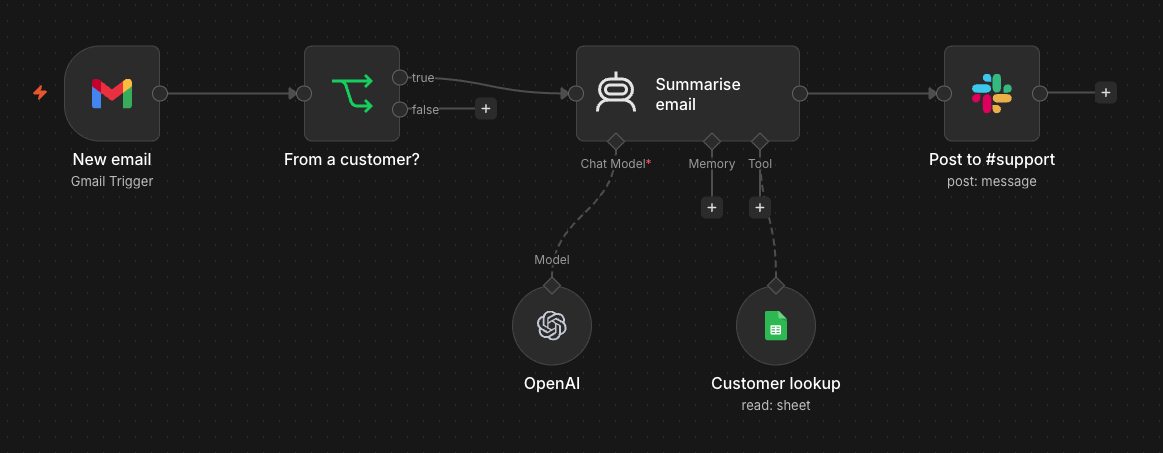
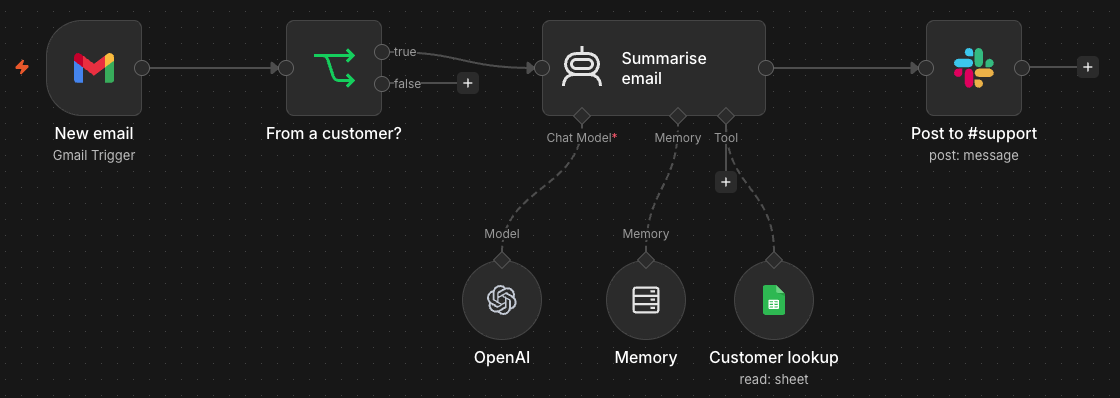
docs: annotate connection types screenshot, trim webhook and end slides

diff --git a/slides.md b/slides.md
@@ -282,7 +282,7 @@ layout: section
 
 # The running <span class="accent">example</span>
 
-<img src="/running-example.png" alt="Workflow: New email (Gmail Trigger) → From a customer? (IF) → Summarise email (AI Agent with OpenAI model and Customer lookup tool) → Post to #support (Slack)" class="example-shot" />
+<img src="/running-example.png" alt="Workflow: New email (Gmail Trigger) → From a customer? (IF) → Summarise email (AI Agent with OpenAI model, Memory and Customer lookup tool) → Post to #support (Slack)" class="example-shot" />
 
 <p class="text-center muted small mt-4">New customer email → decide → summarise with AI → notify the team</p>
 
@@ -499,24 +499,16 @@ layout: section
 <div class="flow mt-2">
   <div class="fstep"><div class="n">Activate</div><div class="t"><code>checkExists()</code></div><div class="d">Is our webhook already registered?</div></div>
   <div class="fstep"><div class="n">If not</div><div class="t"><code>create()</code></div><div class="d">Register our URL with the service</div></div>
-  <div class="fstep pink"><div class="n">On event</div><div class="t"><code>webhook()</code></div><div class="d">Verify, then emit items</div></div>
+  <div class="fstep pink"><div class="n">On event</div><div class="t"><code>webhook()</code></div><div class="d">Turn the request into items</div></div>
   <div class="fstep"><div class="n">Deactivate</div><div class="t"><code>delete()</code></div><div class="d">Unregister the webhook</div></div>
 </div>
 
 <p class="statement" style="margin-top:2.5rem">Publish registers, unpublish <span class="accent">cleans up.</span></p>
 <p class="text-center mt-3">The node describes the lifecycle. n8n calls it at the right time, so no subscription is left behind.</p>
 
-<div class="card mt-8 small-note"><h3>Also</h3><p>Services sign their requests. Check the signature in <code>webhook()</code> before you emit items. <span class="file-ref">nodes/GitHub/GithubTriggerHelpers.ts</span></p></div>
-
-<style>
-.small-note { padding: 0.7rem 1rem; }
-</style>
-
 <!--
 - The lifecycle lives in webhookMethods: checkExists / create / delete
 - create runs when the workflow is published or n8n starts, and only if checkExists returns false
-- Services sign requests: usually HMAC over the raw body (sometimes + timestamp) compared to a header
-- Compare with crypto.timingSafeEqual. On mismatch return empty workflowData so nothing runs
 - Example node: packages/nodes-base/nodes/Microsoft/Teams/MicrosoftTeamsTrigger.node.ts
 -->
 
@@ -1003,28 +995,33 @@ layout: section
 
 <div class="grid grid-cols-3 gap-6 items-center">
 <div class="col-span-2">
-
-```mermaid {scale: 1}
-flowchart LR
-  IN["From a customer? · true"] -- main --> AG["🤖 Summarise email"]
-  AG -- main --> OUT["Post to #support"]
-  LM["OpenAI"] -. ai_languageModel .-> AG
-  MEM["Simple Memory"] -. ai_memory .-> AG
-  T1["Customer lookup"] -. ai_tool .-> AG
-  T2["MCP Client tool"] -. ai_tool .-> AG
-```
-
+  <div class="shot">
+    <img src="/connection-types.png" alt="AI Agent node 'Summarise email' with main input and output, and OpenAI, Memory and Customer lookup sub-nodes attached below" />
+    <span class="tag main" style="left:25%;top:6%">main</span>
+    <span class="tag main" style="left:73%;top:6%">main</span>
+    <span class="tag ai" style="left:22%;top:43%">ai_languageModel</span>
+    <span class="tag ai" style="left:43%;top:50%">ai_memory</span>
+    <span class="tag ai" style="left:74%;top:43%">ai_tool</span>
+  </div>
 </div>
 <div>
   <ul>
-    <li>Regular nodes use <code>main</code></li>
-    <li>AI nodes add typed ports: <code>ai_languageModel</code>, <code>ai_memory</code>, <code>ai_tool</code>, <code>ai_vectorStore</code>…</li>
+    <li>Regular nodes connect with <code>main</code></li>
+    <li>AI nodes add typed ports below the agent</li>
     <li>Only matching types connect</li>
     <li>Sub-nodes implement <code>supplyData()</code>: they hand the agent a model, memory or tool, not items</li>
   </ul>
   <div class="file-ref mt-4">NodeConnectionTypes · packages/workflow/src/interfaces.ts</div>
 </div>
 </div>
+
+<style>
+.shot { position: relative; }
+.shot img { display: block; width: 100%; border-radius: 12px; border: 1px solid var(--border); }
+.shot .tag { position: absolute; transform: translate(-50%, -50%); font-family: 'JetBrains Mono', monospace; font-size: 0.66rem; font-weight: 700; padding: 0.15rem 0.5rem; border-radius: 999px; white-space: nowrap; box-shadow: 0 2px 8px rgba(0,0,0,0.5); }
+.shot .tag.main { background: #3a1826; color: #ffb3c4; border: 1px solid var(--n8n-pink); }
+.shot .tag.ai { background: #2a1d48; color: #d6c8ff; border: 1px solid var(--n8n-purple); }
+</style>
 
 <!--
 - 13 connection types today: main plus 12 ai_* types (agent, chain, document, embedding, languageModel, memory, outputParser, retriever, reranker, textSplitter, tool, vectorStore)
@@ -1063,13 +1060,10 @@ layout: end
   <img src="/n8n-logo-white.svg" class="cover-logo" alt="n8n" />
   <h1 class="cover-title">Questions<span class="accent">?</span></h1>
   <div class="cover-sub">Find us in <code>#team-nodes</code></div>
-  <div class="muted" style="font-size:0.85rem;letter-spacing:0;margin-top:0.5rem">Go deeper: Notion → Team Nodes → <strong>Nodes onboarding</strong> · docs.n8n.io → Build a node</div>
 </div>
 
 <!--
 - Open floor
-- Everything we skipped lives in the Notion "Nodes onboarding" page: testing, error handling, local dev, community nodes
-- Docs: https://docs.n8n.io/integrations/creating-nodes/build/
 - Remind: recording + slides are linked from the Notion onboarding page
 - Nodes-team joiners: team-specific sessions (PR reviews, bug bashes) follow separately
 -->

diff --git a/SCRIPT.md b/SCRIPT.md
@@ -96,7 +96,7 @@ Our research shows people trust AI with their browser much more than with their 
 Now the engineering part. First, our example. This is a real workflow in n8n.
 A new email arrives in Gmail.
 An IF node checks if the email is from a customer.
-If yes, an AI Agent summarises it and looks up the customer in a Google Sheet.
+If yes, an AI Agent summarises it, with a model, a memory, and a Google Sheet to look up the customer.
 Then Slack posts the summary to the support channel.
 Every part of this workflow shows up again later.
 
@@ -158,7 +158,6 @@ If not, `create` registers our URL with the service.
 When an event arrives, `webhook` handles it.
 When the workflow is unpublished, `delete` removes the registration.
 The main point: the node only describes this lifecycle. n8n calls it at the right time, so no subscription is left behind.
-One more thing: services sign their requests, so check the signature before you emit items.
 
 ## 20. Polling triggers
 
@@ -273,7 +272,7 @@ Regular nodes connect with `main`.
 AI nodes add typed connections, like language model, memory and tool.
 Only matching types can connect. A model cannot go into a memory slot.
 Sub-nodes do not process items. They implement `supplyData` and hand the agent a ready object, like a chat model.
-In our example, the OpenAI model and the customer lookup plug into the agent.
+Here is the agent from our example. The OpenAI model, the memory and the customer lookup each plug into their own port.
 
 ## 35. Any node can be a tool
 
@@ -286,5 +285,4 @@ That connects back to part one: nodes, MCP and channels all feed agents.
 ## 36. Questions
 
 That's it from me. What questions do you have?
-Everything we skipped, like testing, error handling and local dev, is on the Notion "Nodes onboarding" page.
 You can always find us in #team-nodes.

diff --git a/README.md b/README.md
@@ -15,7 +15,7 @@ N8N_REPO=/path/to/n8n npm run verify   # slide count, code-block length, notes, 
 ## Before presenting
 
 - Put your name on slide 1 of `SCRIPT.md`.
-- Slide 11 is a screenshot of a real workflow, "Onboarding: running example", in the personal project on berniwittmann.app.n8n.cloud. If you change the workflow, retake the screenshot into `public/running-example.png`. It was taken with the Slack missing-credential warning and the canvas controls hidden.
+- Slides 11 and 34 are screenshots of a real workflow, "Onboarding: running example", in the personal project on berniwittmann.app.n8n.cloud. If you change the workflow, retake the screenshots into `public/running-example.png` and `public/connection-types.png` (the slide 34 tags are positioned by percentage). It was taken with the Slack missing-credential warning and the canvas controls hidden.
 - Slides stay light on purpose. Speaker notes (presenter view) hold the details and file paths. `SCRIPT.md` holds the spoken script for the recording.
 
 ## Layout
@@ -25,7 +25,7 @@ N8N_REPO=/path/to/n8n npm run verify   # slide count, code-block length, notes, 
 | `slides.md` | The deck: 36 slides in 6 numbered sections |
 | `SCRIPT.md` | Speakable script, one section per slide |
 | `style.css`, `setup/mermaid.ts`, `public/n8n-*.svg` | n8n theme, copied unchanged from the n8n Connect deck |
-| `public/running-example.png` | Canvas screenshot of the running example workflow |
+| `public/running-example.png`, `public/connection-types.png` | Canvas screenshots of the running example workflow (slides 11 and 34) |
 | `global-bottom.vue` | Footer, same as the Connect deck, with the label "Nodes team · Engineering onboarding" |
 | `scripts/verify.mjs` | Automated checks for the goal facts |
 
